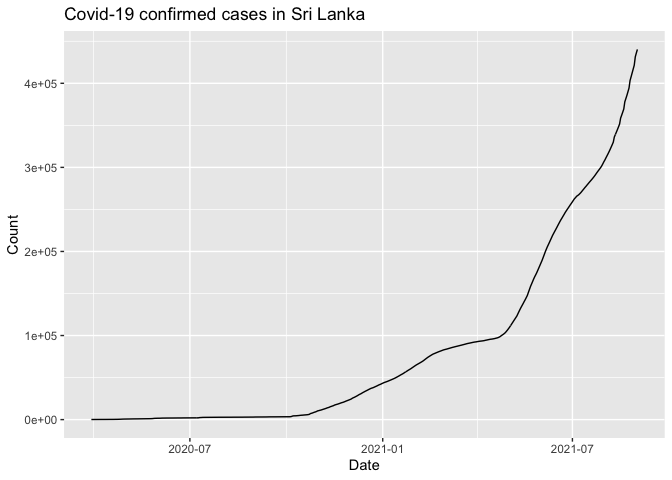
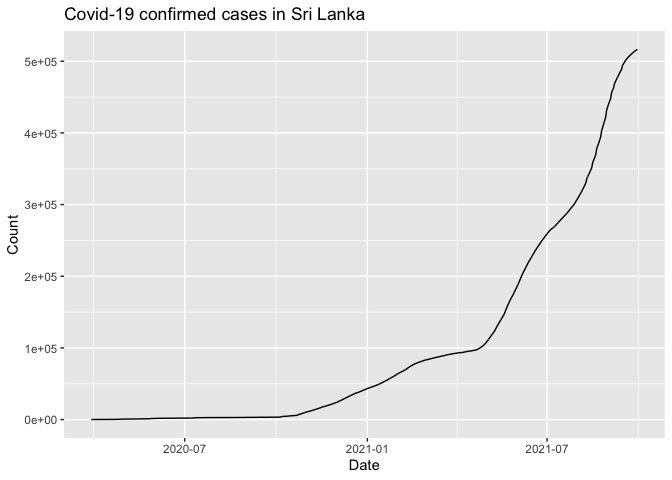
Updated

diff --git a/README.md b/README.md
@@ -37,6 +37,14 @@ head(covid.cases)
 #> 4 2020-03-29    Active   104
 #> 5 2020-03-30 Confirmed   120
 #> 6 2020-03-30 Recovered    11
+tail(covid.cases)
+#>            Date      Type  Count
+#> 2195 2021-09-29    Deaths  12786
+#> 2196 2021-09-29   Actives  45881
+#> 2197 2021-09-30 Confirmed 516465
+#> 2198 2021-09-30 Recovered 457488
+#> 2199 2021-09-30    Deaths  12847
+#> 2200 2021-09-30   Actives  46130
 ```
 
 ## District-wise Covid-19 Cases in Sri Lanka
@@ -75,7 +83,7 @@ library(tidyverse)
 #> ✓ ggplot2 3.3.5     ✓ purrr   0.3.4
 #> ✓ tibble  3.1.5     ✓ dplyr   1.0.7
 #> ✓ tidyr   1.1.4     ✓ stringr 1.4.0
-#> ✓ readr   1.4.0     ✓ forcats 0.5.1
+#> ✓ readr   2.0.2     ✓ forcats 0.5.1
 #> ── Conflicts ────────────────────────────────────────── tidyverse_conflicts() ──
 #> x dplyr::filter() masks stats::filter()
 #> x dplyr::lag()    masks stats::lag()
